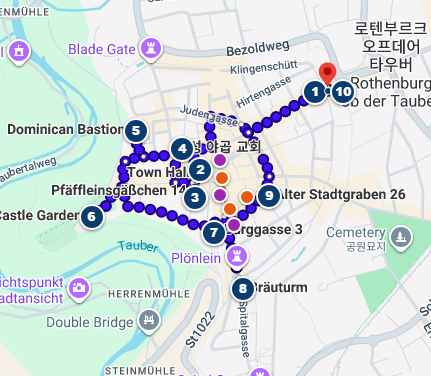
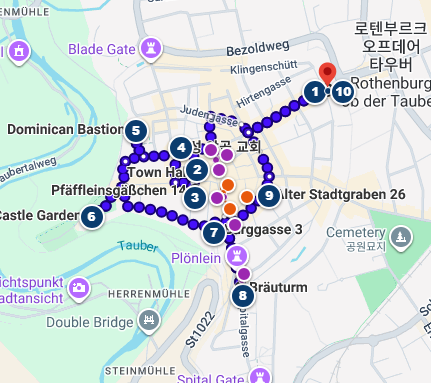
Expand Rothenburg dessert/cafe section from 3 to 6 entries
Add Konditorei Café Prezel (Marktplatz), Bäckerei-Konditorei-Café
Walter Friedel ("original" Rothenburger Schneeball trademark), and
Grand Cru Chocolaterie & Patisserie (handmade pralines/macarons at
Plönlein). Map markers and screenshot regenerated.

diff --git a/germany-roadtrip-planner.html b/germany-roadtrip-planner.html
@@ -1274,6 +1274,27 @@ document.addEventListener('DOMContentLoaded', function(){
           <p class="food-park">🅿 P4 Galgentor에서 도보 7분 · <a href="https://www.google.com/maps/search/?api=1&query=Eis+Cafe+Dolomiti+Rothenburg+ob+der+Tauber" target="_blank" rel="noopener">지도</a></p>
           <p class="food-near">📍 시청 탑에서 약 130m·도보 2분</p>
         </div>
+        <div class="food-card">
+          <h5>Konditorei Café Prezel</h5>
+          <p class="food-loc">Marktplatz 5 · 시청과 마주보는 마르크트광장 정면 자리, 야외 테라스석 · 화·수·금–일 09:00–18:00, 월·목 휴무</p>
+          <p class="food-dish">🍰 케이크·토르테</p>
+          <p class="food-park">🅿 P4 Galgentor에서 도보 7분 · <a href="https://www.google.com/maps/search/?api=1&query=Konditorei+Cafe+Prezel+Marktplatz+5+Rothenburg" target="_blank" rel="noopener">지도</a></p>
+          <p class="food-near">📍 중세범죄박물관에서 약 150m·도보 2분</p>
+        </div>
+        <div class="food-card">
+          <h5>Bäckerei-Konditorei-Café Walter Friedel</h5>
+          <p class="food-loc">Markt 8 · "오리지널 로텐부르거 슈네발" 상표를 쓰는 베이커리 카페 · 월–토 06:00–18:00, 일 10:00–18:00</p>
+          <p class="food-dish">🥐 오리지널 슈네발</p>
+          <p class="food-park">🅿 P4 Galgentor에서 도보 6분 · <a href="https://www.google.com/maps/search/?api=1&query=Baeckerei+Konditorei+Cafe+Walter+Friedel+Markt+8+Rothenburg" target="_blank" rel="noopener">지도</a></p>
+          <p class="food-near">📍 시청 탑에서 약 150m·도보 2분</p>
+        </div>
+        <div class="food-card">
+          <h5>Grand Cru Chocolaterie &amp; Patisserie</h5>
+          <p class="food-loc">Am Plönlein 3, 로텐부르크 명소 플뢴라인 · 수제 프랄린·초콜릿·마카롱 전문 · 수–금 14:00–18:00, 토 13:00–18:00, 일·공휴일 12:00–18:00, 월·화 휴무</p>
+          <p class="food-dish">🍫 수제 프랄린·마카롱</p>
+          <p class="food-park">🅿 P4 Galgentor에서 도보 12분 · <a href="https://www.google.com/maps/search/?api=1&query=Grand+Cru+Chocolaterie+am+Ploenlein+Rothenburg" target="_blank" rel="noopener">지도</a></p>
+          <p class="food-near">📍 시청 탑에서 약 400m·도보 6분</p>
+        </div>
       </div>
       </div>
       <p class="city-label">뉘른베르크</p>

diff --git a/index.html b/index.html
@@ -1274,6 +1274,27 @@ document.addEventListener('DOMContentLoaded', function(){
           <p class="food-park">🅿 P4 Galgentor에서 도보 7분 · <a href="https://www.google.com/maps/search/?api=1&query=Eis+Cafe+Dolomiti+Rothenburg+ob+der+Tauber" target="_blank" rel="noopener">지도</a></p>
           <p class="food-near">📍 시청 탑에서 약 130m·도보 2분</p>
         </div>
+        <div class="food-card">
+          <h5>Konditorei Café Prezel</h5>
+          <p class="food-loc">Marktplatz 5 · 시청과 마주보는 마르크트광장 정면 자리, 야외 테라스석 · 화·수·금–일 09:00–18:00, 월·목 휴무</p>
+          <p class="food-dish">🍰 케이크·토르테</p>
+          <p class="food-park">🅿 P4 Galgentor에서 도보 7분 · <a href="https://www.google.com/maps/search/?api=1&query=Konditorei+Cafe+Prezel+Marktplatz+5+Rothenburg" target="_blank" rel="noopener">지도</a></p>
+          <p class="food-near">📍 중세범죄박물관에서 약 150m·도보 2분</p>
+        </div>
+        <div class="food-card">
+          <h5>Bäckerei-Konditorei-Café Walter Friedel</h5>
+          <p class="food-loc">Markt 8 · "오리지널 로텐부르거 슈네발" 상표를 쓰는 베이커리 카페 · 월–토 06:00–18:00, 일 10:00–18:00</p>
+          <p class="food-dish">🥐 오리지널 슈네발</p>
+          <p class="food-park">🅿 P4 Galgentor에서 도보 6분 · <a href="https://www.google.com/maps/search/?api=1&query=Baeckerei+Konditorei+Cafe+Walter+Friedel+Markt+8+Rothenburg" target="_blank" rel="noopener">지도</a></p>
+          <p class="food-near">📍 시청 탑에서 약 150m·도보 2분</p>
+        </div>
+        <div class="food-card">
+          <h5>Grand Cru Chocolaterie &amp; Patisserie</h5>
+          <p class="food-loc">Am Plönlein 3, 로텐부르크 명소 플뢴라인 · 수제 프랄린·초콜릿·마카롱 전문 · 수–금 14:00–18:00, 토 13:00–18:00, 일·공휴일 12:00–18:00, 월·화 휴무</p>
+          <p class="food-dish">🍫 수제 프랄린·마카롱</p>
+          <p class="food-park">🅿 P4 Galgentor에서 도보 12분 · <a href="https://www.google.com/maps/search/?api=1&query=Grand+Cru+Chocolaterie+am+Ploenlein+Rothenburg" target="_blank" rel="noopener">지도</a></p>
+          <p class="food-near">📍 시청 탑에서 약 400m·도보 6분</p>
+        </div>
       </div>
       </div>
       <p class="city-label">뉘른베르크</p>
